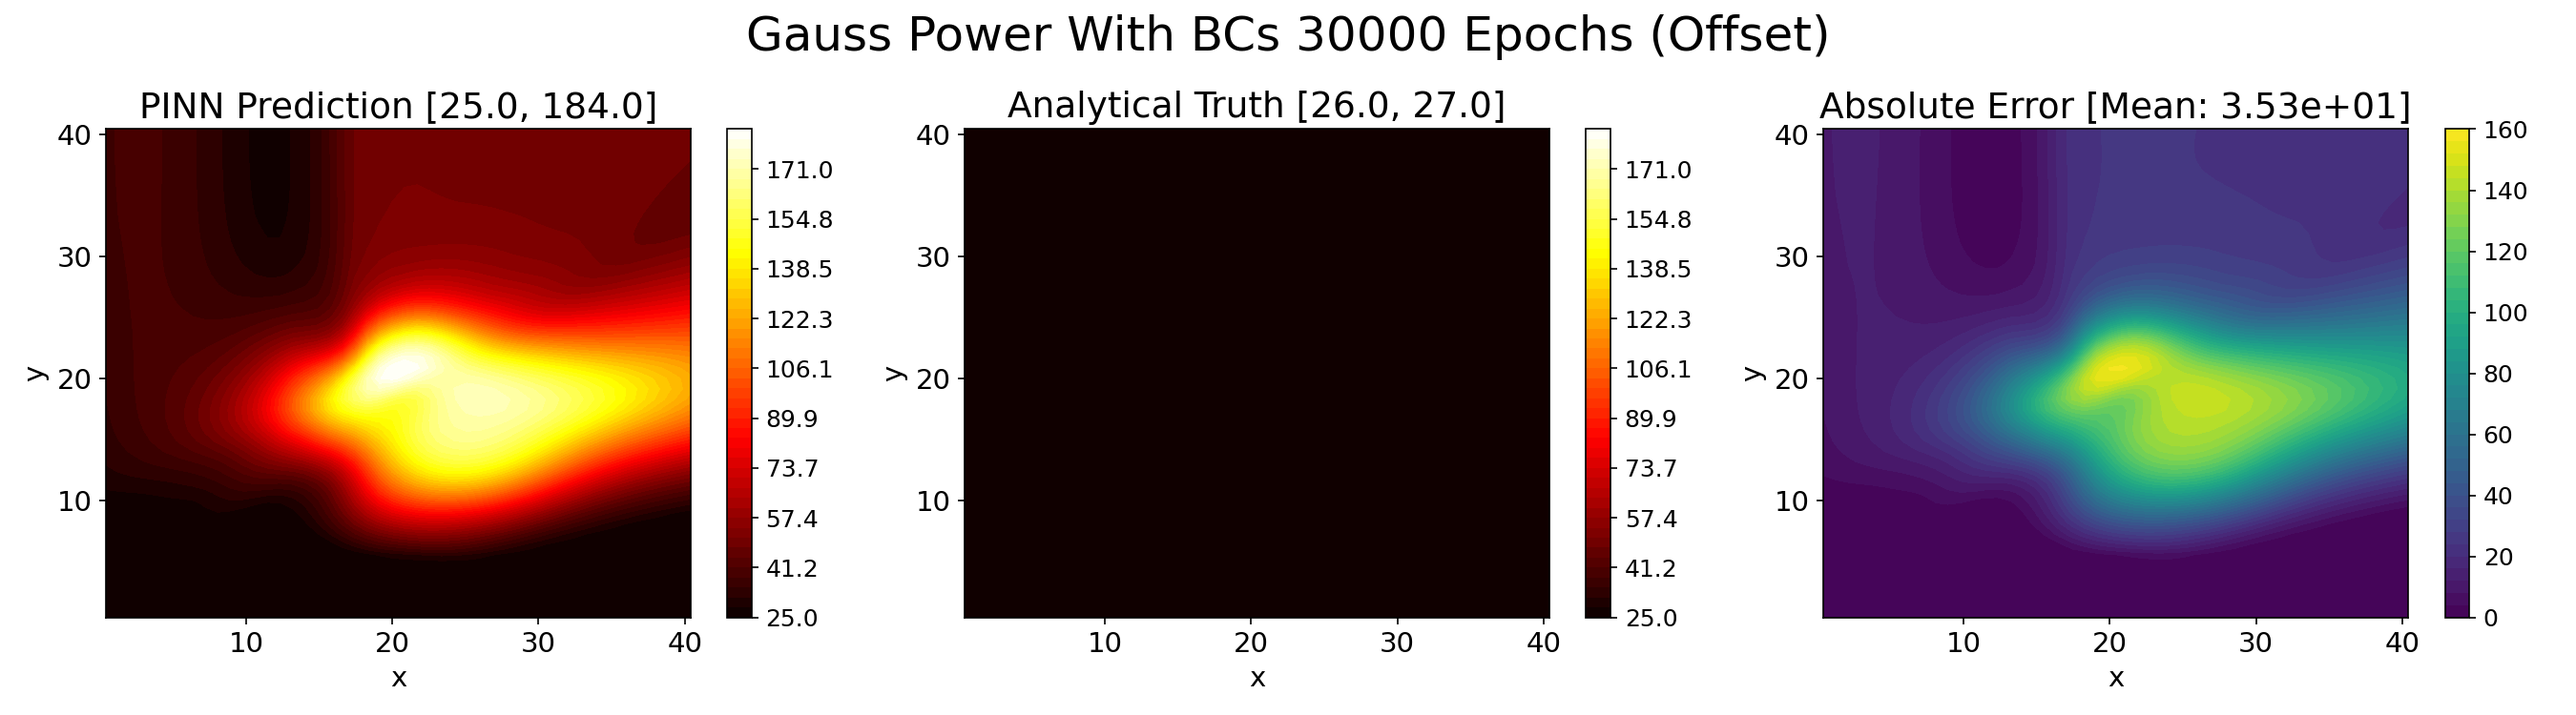
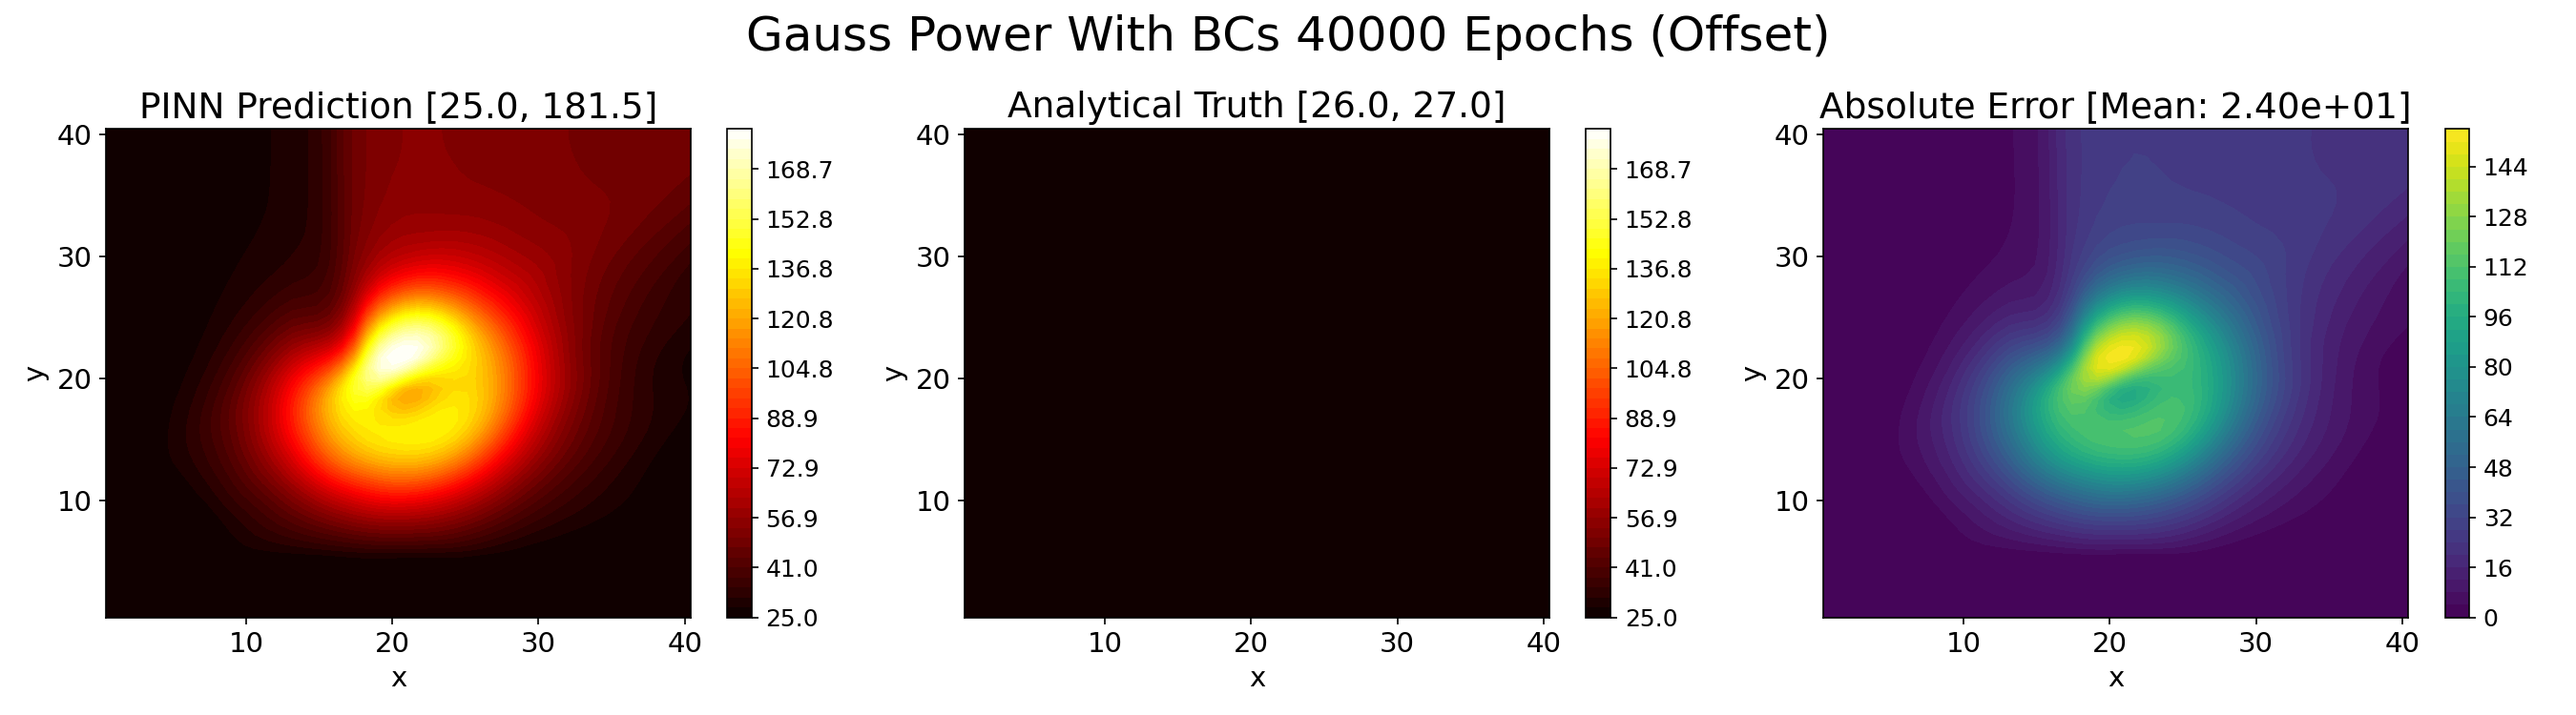
haider notes

diff --git a/src/examples/singleplate_powermap/oneplate.py b/src/examples/singleplate_powermap/oneplate.py
@@ -14,6 +14,8 @@ from model_nn import PowerMapPlateModel, PowerMapPlateModel
 from src.mediums import Medium, Grid
 
 def get_exp_data() -> util_data.ModelData:
+    ''' aka get example data '''
+    # set up gaussian power source
     fixed_spread, fixed_power = 3.0, 0.8
     fixed_amp = fixed_power / (2 * np.pi * fixed_spread ** 2)
     power_sources = [
@@ -21,21 +23,28 @@ def get_exp_data() -> util_data.ModelData:
         # Gaussian(x=30.0, y=10.0, spread=fixed_spread, amplitude=fixed_amp),
     ]
 
+    # load analytical/ground truth solutions
     data_path = Path(r'../../ground_truth').resolve()
     analytical_pairs = util_data.load_pwrmp_data(data_path)
+
+    # set up train/truth data for model consumption
     train_data = util_data.ModelData(pinn=[power_sources], paired=analytical_pairs)
     return train_data
 
 def get_exp_results_dir():
+    ''' returns results folder within cur directory '''
     return Path(r'results').resolve()
 
 
 
 ''' DEFINE PLATE & MODEL '''
 def get_exp_model_setup():
+    # define the thermal medium (aka the heated plate)
     plate = Medium(conduction=3e-4, ambient=25.0,
         measure="mm", length=40.0, width=40.0
     ) # Update conduction to W/(mm K)
+
+    # set the edge/boundary conditions
     plate.setConditions(PinnSet(
         top=Insulated(), bottom=Insulated(),
         left=Robin(h=1e-5), right=Robin(h=1e-5),
@@ -43,20 +52,24 @@ def get_exp_model_setup():
     ))
     print('PLATE SETUP: ', plate.asJson(clean=False))
 
+    # set up sampling grid
     grid = Grid(length=48, width=48)
     print('GRID SETUP: ', grid)
 
-    # wts = PinnSet().set(1.0)
-    # wts.core = 10.0
+    # loss engine conducts loss adjustments and records training history
     loss_engine = LossEngine()
+    # set the directory used to save model weights
     check_dir = Path(r'checkpoints').resolve()
+    # define model wrapper
     model = PowerMapPlateModel(
         plate=plate, grid=grid, engine=loss_engine,
         checkpoint_dir=check_dir
-    ) # train on just core to troubleshoot
+    )
+    # define neural network model
     model.default_model(
         num_blocks=5, num_hidden=128,
-        lr=1e-3, wt_decay=1e-4, device='cuda'
+        lr=1e-3, wt_decay=1e-4,
+        device='cuda' # HAIDER - use mps or cpu for mac
     )
     print('PINN MODEL SETUP: \n', model.model)
 
@@ -69,57 +82,94 @@ if __name__ == "__main__":
     train_data = get_exp_data()
     train_dir = get_exp_results_dir()
 
-    ''' TRAIN MODEL '''
+
+    ''' LOAD TRAINED MODEL 
+    HAIDER - below are 'rounds' of training, I recommend running one round at a time
+    -> comment rounds other than round one, run training
+    -> check out results in train_dir
+    -> uncomment OPTION 3
+    -> comment out rounds other that round 2, run training
+    -> repeat for remaining rounds
+    -> after training complete, run eval_only.py which will compare prediction to analytical solution
+    '''
+    # OPTION 1 - use this to load a trained model from a specific place
     # model_path = Path(r'../best_models/best_checkpoints/checkpoint_initialwts_oneplate_pwrmp_epoch100.pth').resolve()
     # model.load_model(model_path)
-    # load_mod_dir = Path(r'../best_models/singleplate_powermap_v3/checkpoints').resolve()
-    # model.load_checkpoint(epoch=700, load_dir=load_mod_dir)
-    model.load_checkpoint(epoch=30000) # first 1k were paired and PDE
 
-    # if model.engine.e() == 1 or model.engine.load_epoch == 0:
-    # util_data.clear_dir(model.checkpoint_dir)
+    # OPTION 2 - use this to load the trained model from an epoch saved in checkpoints dir
+    # model.load_checkpoint(epoch=30000)
+
+    # OPTION 3 - load most recent epoch
+    # model.load_checkpoint()
+
+    # OPTION 4 - load no model, start from random weights
+
+
+    ''' TRAIN MODEL '''
+    if model.engine.e() == 1 or model.engine.load_epoch == 0:
+        util_data.clear_dir(model.checkpoint_dir)
     util_data.clear_dir(train_dir)
 
-    num_epochs = 20000
+    num_epochs = 2000 # usually run training in batches of 1-3k
     model.engine.log_freq = min(1000, floor(num_epochs // 10))
     model.engine.check_freq = min(1000, floor(num_epochs // 2))
-    model.engine.eval_freq = 10
+    model.engine.eval_freq = 10  # how often prediction is compared to actual solution (not applied to loss)
 
-    model.engine.paired_freq = 5
-    # model.engine.loss_wts.set_wts(
-    #     core=model.grid_map.shape[0]**1.7,
-    #     pinn=float(model.grid_map.shape[0]), paired=1e-4,
-    # )
-    model.engine.loss_wts.set_wts(
-        core=float(model.grid_map.shape[0]**1.7),
-        pinn=float(model.grid_map.shape[0]/5), paired=1e-4
-    )
-    # model.engine.loss_wts['top'] = 1
     print('OPTIMIZER: \n', model.optimizer)
     print(f'\nLOSS WTS: {model.engine.loss_wts.asJson()}\n')
 
-    ''' start with PDE/PAIRED only'''
-    model.engine.core_only = False
-    # model.engine.converge_loss = 1e-7
-    # model.set_lr(1e-3)
-    # loss_hist = model.train_model(train_data=train_data, epochs=4000)
-    # util_example.plot_example_losshist(model, loss_hist=loss_hist.copy(), save_dir=train_dir)
 
-    # model.set_lr(1e-4)
-    # model.engine.converge_loss = 1e-7
-    # loss_hist = model.train_model(train_data=train_data, epochs=3000)
-    # util_example.plot_example_losshist(model, loss_hist=loss_hist.copy(), save_dir=train_dir)
+    ''' HAIDER - INITIAL LOSS CONFIG
+    loss = (w1*core + w2*side1 + ... + w5*side4 + w6*paired)/6
+    w1: (num_core_sample_points^1.7)
+    w2-5: (num_sample_points^1.7)
+    w6: some very small number, only included every 5th run to avoid 'trumping' the phys-loss
+    
+    notes
+    -> core or pde refers to the gaussian heat source
+    -> sides are the boundary conditions
+    -> not all loss elements are included in every epoch
+    -> if one loss element is below converge_loss it will not be applied to backwards prop
+        -> it will still be included in later epochs if above converge_loss
+    -> model likes to learn one section at a time, so intermediate results will be lopsided
+    '''
 
-    # model.set_lr(7e-5)
-    # model.engine.converge_loss = 5e-7
-    # loss_hist = model.train_model(train_data=train_data, epochs=3000)
-    # util_example.plot_example_losshist(model, loss_hist=loss_hist.copy(), save_dir=train_dir)
+    model.engine.core_only = False # best to train with all conditions on from start
+    model.engine.paired_freq = 5   # model will ignore phys loss if this is run too frequently
+    model.engine.converge_loss = 1e-4
+    model.engine.loss_wts.set_wts(
+        core=model.grid_map.shape[0]**1.7,
+        pinn=float(model.grid_map.shape[0]), paired=1e-4,
+    )
 
-    model.set_lr(1e-5)
-    model.engine.converge_loss = 4e-7
-    loss_hist = model.train_model(train_data=train_data, epochs=10000)
+    # round 1 - large lr, large converge_loss
+    model.set_lr(1e-3)
+    loss_hist = model.train_model(train_data=train_data, epochs=num_epochs)
+    # plots training progress, most relevant results in loss_total_plot_log and compare_temps
     util_example.plot_example_losshist(model, loss_hist=loss_hist.copy(), save_dir=train_dir)
 
+    # round 2 - lower lr
+    model.set_lr(1e-4)
+    loss_hist = model.train_model(train_data=train_data, epochs=num_epochs*2)
+    util_example.plot_example_losshist(model, loss_hist=loss_hist.copy(), save_dir=train_dir)
 
+    # round 3 - lower lr, lower converge loss
+    model.set_lr(7e-5)
+    model.engine.converge_loss = 1e-6
+    loss_hist = model.train_model(train_data=train_data, epochs=num_epochs*2)
+    util_example.plot_example_losshist(model, loss_hist=loss_hist.copy(), save_dir=train_dir)
+
+    # round 3 - lower lr, lower converge loss
+    model.set_lr(1e-5)
+    model.engine.converge_loss = 1e-7
+    loss_hist = model.train_model(train_data=train_data, epochs=num_epochs*2)
+    util_example.plot_example_losshist(model, loss_hist=loss_hist.copy(), save_dir=train_dir)
+
+    ''' produces extra visuals and graphs and puts them into 'results' dir
+    most relevant results in eval/...
+    - compare_analytical_norm -> norms predictions to analytical range to evaluate shape
+    - compare_analytical_offset (norm or not norm) -> prediction on unseen domain
+    - 
+    '''
     print('\nEVAL TRAIN PERFORMANCE... ')
     util_example.eval_plate_example(model, power_data=train_data, save_dir=train_dir)

diff --git a/src/examples/singleplate_powermap/eval_only.py b/src/examples/singleplate_powermap/eval_only.py
@@ -8,7 +8,7 @@ from conditions import Gaussian
 from examples.singleplate_powermap.oneplate import get_exp_model_setup, get_exp_data, get_exp_results_dir
 
 if __name__ == "__main__":
-    ''' LOAD EXP SETUP '''
+    ''' LOAD EXAMPLE SETUP '''
     model = get_exp_model_setup()
     input_data = get_exp_data()
     train_dir = get_exp_results_dir()
@@ -23,6 +23,9 @@ if __name__ == "__main__":
     print('\nEVAL PERFORMANCE ON TRAIN DATA... ')
     eval_dir = Path('eval').resolve()
     util_data.clear_dir(eval_dir)
+    util_example.eval_plate_example(model=model, power_data=input_data,
+        title=f'Gauss Power With BCs {model.engine.e()} Epochs', save_dir=eval_dir, suff=''
+    )
     util_example.eval_plate_example(model, power_data=input_data, normal=True,
         title=f'Center Gauss {model.engine.e()+1} Epochs (Normal)', save_dir=eval_dir
     )
@@ -30,34 +33,35 @@ if __name__ == "__main__":
 
 
     print('\nEVAL PERFORMANCE ON OFFSET GRID... ')
-    offset = (
+    offset = ( # offset to halfway between original sample points
         (model.plate.length / model.grid.length) * 0.5,
         (model.plate.width / model.grid.width) * 0.5
     )
     util_example.eval_offset_example(model=model, power_data=input_data, offset=offset,
         title=f'Gauss Power With BCs {model.engine.e()} Epochs (Offset)', save_dir=eval_dir, suff=''
     )
-    util_example.eval_offset_example(model=model, power_data=input_data, normal=True, offset=offset,
-        title=f'Gauss Power With BCs {model.engine.e()} Epochs (Norm, Off)', save_dir=eval_dir, suff='norm'
-    )
+    # util_example.eval_offset_example(model=model, power_data=input_data, normal=True, offset=offset,
+    #     title=f'Gauss Power With BCs {model.engine.e()} Epochs (Norm, Off)', save_dir=eval_dir, suff='norm'
+    # )
 
 
-    model.load_checkpoint(epoch=29000)
-    print(f'...eval pde only training (model at {model.engine.e()}')
-    util_example.eval_plate_example(model, power_data=input_data, normal=True,
-        title=f'Center Gauss {model.engine.e()} Epochs (Normal)',
-        save_dir=eval_dir, suff=f'{model.engine.e()}epochs'
-    )
-
-    offset = (
-        (model.plate.length / model.grid.length) * 0.5,
-        (model.plate.width / model.grid.width) * 0.5
-    )
-    util_example.eval_offset_example(model=model, power_data=input_data, offset=offset,
-        title=f'Gauss Power {model.engine.e()} Epochs (Offset)', save_dir=eval_dir, suff=f'{model.engine.e()}epochs'
-    )
-    util_example.eval_offset_example(model=model, power_data=input_data, normal=True, offset=offset,
-        title=f'Gauss Power {model.engine.e()} Epochs (Norm, Off)', save_dir=eval_dir, suff=f'norm_{model.engine.e()}epochs'
-    )
+    ''' to eval earlier model if desired '''
+    # model.load_checkpoint(epoch=29000)
+    # print(f'...eval pde only training (model at {model.engine.e()}')
+    # util_example.eval_plate_example(model, power_data=input_data, normal=True,
+    #     title=f'Center Gauss {model.engine.e()} Epochs (Normal)',
+    #     save_dir=eval_dir, suff=f'{model.engine.e()}epochs'
+    # )
+    #
+    # offset = (
+    #     (model.plate.length / model.grid.length) * 0.5,
+    #     (model.plate.width / model.grid.width) * 0.5
+    # )
+    # util_example.eval_offset_example(model=model, power_data=input_data, offset=offset,
+    #     title=f'Gauss Power {model.engine.e()} Epochs (Offset)', save_dir=eval_dir, suff=f'{model.engine.e()}epochs'
+    # )
+    # util_example.eval_offset_example(model=model, power_data=input_data, normal=True, offset=offset,
+    #     title=f'Gauss Power {model.engine.e()} Epochs (Norm, Off)', save_dir=eval_dir, suff=f'norm_{model.engine.e()}epochs'
+    # )
 
 

diff --git a/src/model_nn.py b/src/model_nn.py
@@ -185,14 +185,13 @@ class PowerMapPlateModel(ThermalModel2D):
         dim=-1).requires_grad_(True).to(self._device)
 
         preds = self.model(mod_in)
+        # normalize for PDE only worked best for training
         if self.engine.norm_preds and coords.shape[0]==self.grid.length*self.grid.width:
             preds = preds - torch.min(preds) + self.plate.ambient
             # preds = util_tensor.normalize(preds.requires_grad_(True),
             #     vmin=self.plate.ambient, vmax=self.plate.ambient+torch.max(preds)-torch.min(preds)
             # ).requires_grad_(True)
 
-        # TODO: loss scale is applied before loss calculation, and loss wts are applied after
-        # loss_scale = self.engine.loss_scale if part=='paired' else 1
         cur_loss = bc.loss(u=preds, coords=coords)
         if eval:
             residuals = bc.residual(u=preds, coords=coords)
@@ -235,15 +234,16 @@ class PowerMapPlateModel(ThermalModel2D):
         num_parts = 0
         power_source = power_data.next()
         for part, train in self.engine.loss_parts().items():
-            # TODO: best PINN results when coords and power map are rebuilt each time
             if not train and not self.engine.is_eval_epoch():
                 continue
 
+            # best PINN results when coords and power map are rebuilt each time
             coords, power_map, bc = self._build_input(power_source, part)
             temps, cur_loss = self._model(coords, power_map, bc, eval=False)
             cur_loss = self.engine.add_loss(part, cur_loss, self._device)
 
-            if train and cur_loss > self.engine.converge_loss: # aka, if train is true, include in total
+            if train and cur_loss > self.engine.converge_loss:
+                # aka, if train is true & loss is large enough, include in total loss
                 total_loss = total_loss + cur_loss
                 num_parts += 1
 

diff --git a/src/loss.py b/src/loss.py
@@ -75,9 +75,9 @@ class LossEngine(ExpComponent):
     core_only: bool = False  # if you want to train/eval core without BCs
     paired_freq: int = 0
 
-    log_freq: int = 0
-    check_freq: int = 0
-    eval_freq: int = 0
+    log_freq: int = 0       # training log frequency
+    check_freq: int = 0     # how often model weights are saved
+    eval_freq: int = 0      # how often prediction is compared to actual solution
 
     converged: bool = False
     converge_loss: float = 1e-6
